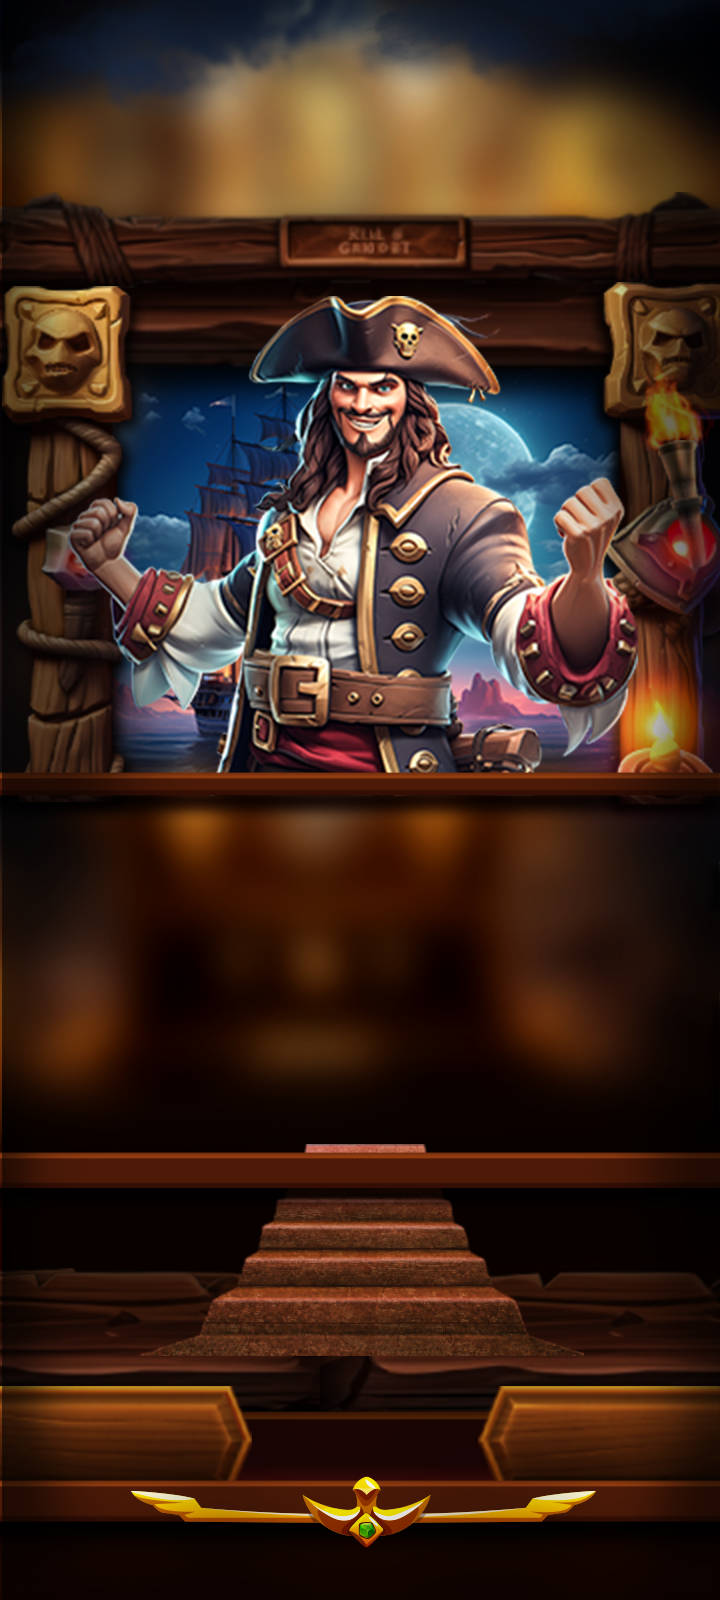
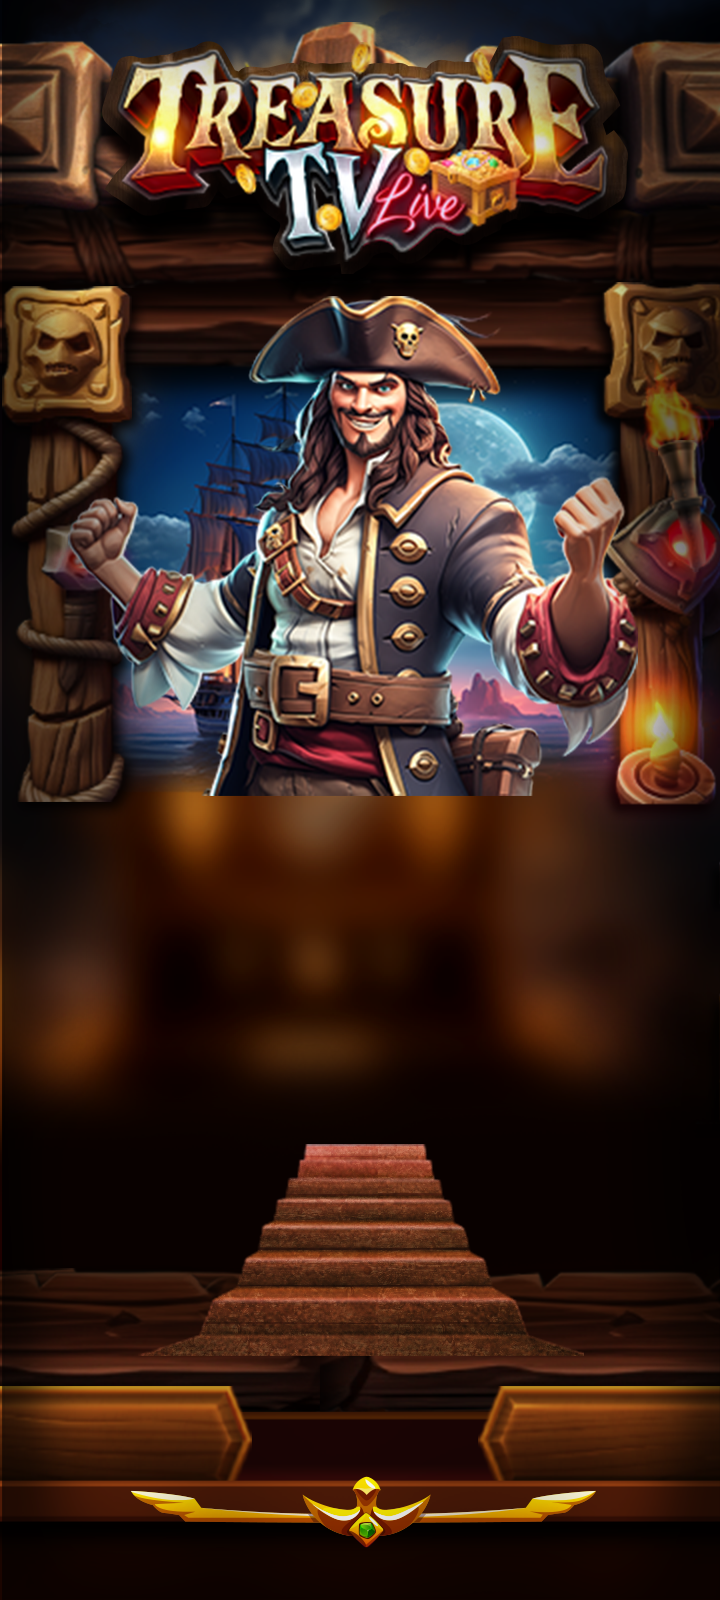
wip mobile portrait

Changed region(s): [[0.0, 0.0, 1.0, 0.1875], [0.0, 0.4688, 1.0, 0.5312], [0.0, 0.7188, 1.0, 0.7812]]

diff --git a/src/scenes/Game.ts b/src/scenes/Game.ts
@@ -14,7 +14,7 @@ export class Game extends Scene {
     nextRoundContainer: GameObjects.Container;
     demoVideo: GameObjects.Video;
     isDeskTop: boolean;
-    isLandscape: boolean; 
+    isLandscape: boolean;
 
     gamewidth: number;
     gameHeight: number;
@@ -37,8 +37,8 @@ export class Game extends Scene {
 
     create() {
         this.camera = this.cameras.main;
-        
-        if(!this.isLandscape){
+
+        if (!this.isLandscape) {
             this.scale.setGameSize(720, 1600);
             // this.scale.displaySize.setAspectRatio(window.innerWidth / window.innerHeight);
             this.scale.refresh();
@@ -49,18 +49,14 @@ export class Game extends Scene {
         this.background.setDepth(0);
         Display.Align.In.Center(this.background, this.add.zone(this.camera.centerX, this.camera.centerY, this.gamewidth, this.gameHeight));
 
-        if(this.isLandscape){
-            this.frame = this.add.image(this.camera.centerX, this.camera.centerY - 65, 'video-frame').setDepth(4);
-            this.frame.setOrigin(0.5);
-        }
-        else{
-            this.mobileLogo = this.add.image(0, 0, 'mobile-logo').setOrigin(0.5).setDepth(1);
-            Display.Align.In.TopCenter(this.mobileLogo, this.add.zone(this.camera.centerX, this.camera.centerY, this.gamewidth, this.gameHeight), 0, 200)
-        }
-       
+        const frameKey = this.isLandscape ? 'video-frame' : 'mobile-frame';
+        const offsetY = this.isLandscape ? -65 : 185;
+        this.frame = this.add.image(this.camera.centerX, this.camera.centerY + offsetY, frameKey).setDepth(4);
+        this.frame.setOrigin(0.5);
 
-        // this.createLowerBox();
-        // this.embedVideo();
+
+        this.createLowerBox();
+        this.embedVideo();
         this.createButtons();
 
         // this.checkOriention(this.scale.orientation);
@@ -101,22 +97,23 @@ export class Game extends Scene {
     }
 
     private embedVideo() {
-        this.demoVideo = this.add.video(this.camera.centerX, this.camera.centerY + 10, 'demo-video').setOrigin(0.5);
+        const offsetY = this.isLandscape ? 10 : 160;
+        this.demoVideo = this.add.video(this.camera.centerX, this.camera.centerY + offsetY, 'demo-video').setOrigin(0.5);
         this.demoVideo.setInteractive();
         this.demoVideo.setLoop(true);
         this.demoVideo.setVolume(1);
         this.demoVideo.setDepth(1);
         this.demoVideo.play(true);
-        this.demoVideo.setScale(0.7);
+        this.demoVideo.setScale(this.isLandscape ? 0.7 : 0.35);
 
-        this.demoVideo.once('created', () => {
-            console.log(this.demoVideo.displayWidth)
-            const maskRect = this.add.rectangle(0, 0, this.demoVideo.displayWidth, this.demoVideo.displayHeight, 0x000000);
-            Phaser.Display.Align.In.BottomCenter(maskRect, this.frame, 0, -20);
-            // maskRect.setVisible(true);
-            const mask = maskRect.createGeometryMask();
-            this.demoVideo.setMask(mask);
-        });
+        // this.demoVideo.once('created', () => {
+        //     console.log(this.demoVideo.displayWidth)
+        //     const maskRect = this.add.rectangle(0, 0, this.demoVideo.displayWidth, this.demoVideo.displayHeight, 0x000000);
+        //     Phaser.Display.Align.In.BottomCenter(maskRect, this.frame, 0, -20);
+        //     // maskRect.setVisible(true);
+        //     const mask = maskRect.createGeometryMask();
+        //     this.demoVideo.setMask(mask);
+        // });
 
         // // const offsetX = (!this.isDeskTop && this.isLandscape === true) ? 330 : 330;
     }
@@ -132,7 +129,7 @@ export class Game extends Scene {
             if (this.isLandscape) {
                 // this.scale.displaySize.setAspectRatio(window.innerWidth / window.innerHeight);
                 // this.scale.refresh();
-                
+
                 // this.frame.setDisplaySize(1500, this.frame.displayHeight);
                 // this.demoVideo.setDisplaySize(this.frame.displayWidth, this.frame.displayHeight);
                 // console.log(this.frame.displayWidth / this.frame.displayHeight);

diff --git a/src/scenes/Preloader.ts b/src/scenes/Preloader.ts
@@ -56,6 +56,7 @@ export class Preloader extends Scene {
         this.load.image('video-frame', 'frame.png');
         this.load.image('mobile-logo', 'mobile-logo.png');
         this.load.image('mobileBg', 'mobileBg.png');
+        this.load.image('mobile-frame', 'mobileFrame.png');
 
         this.load.image('next-round', 'others/next-round.png');
         this.load.image('prize-pool', 'others/prize-pool.png');
